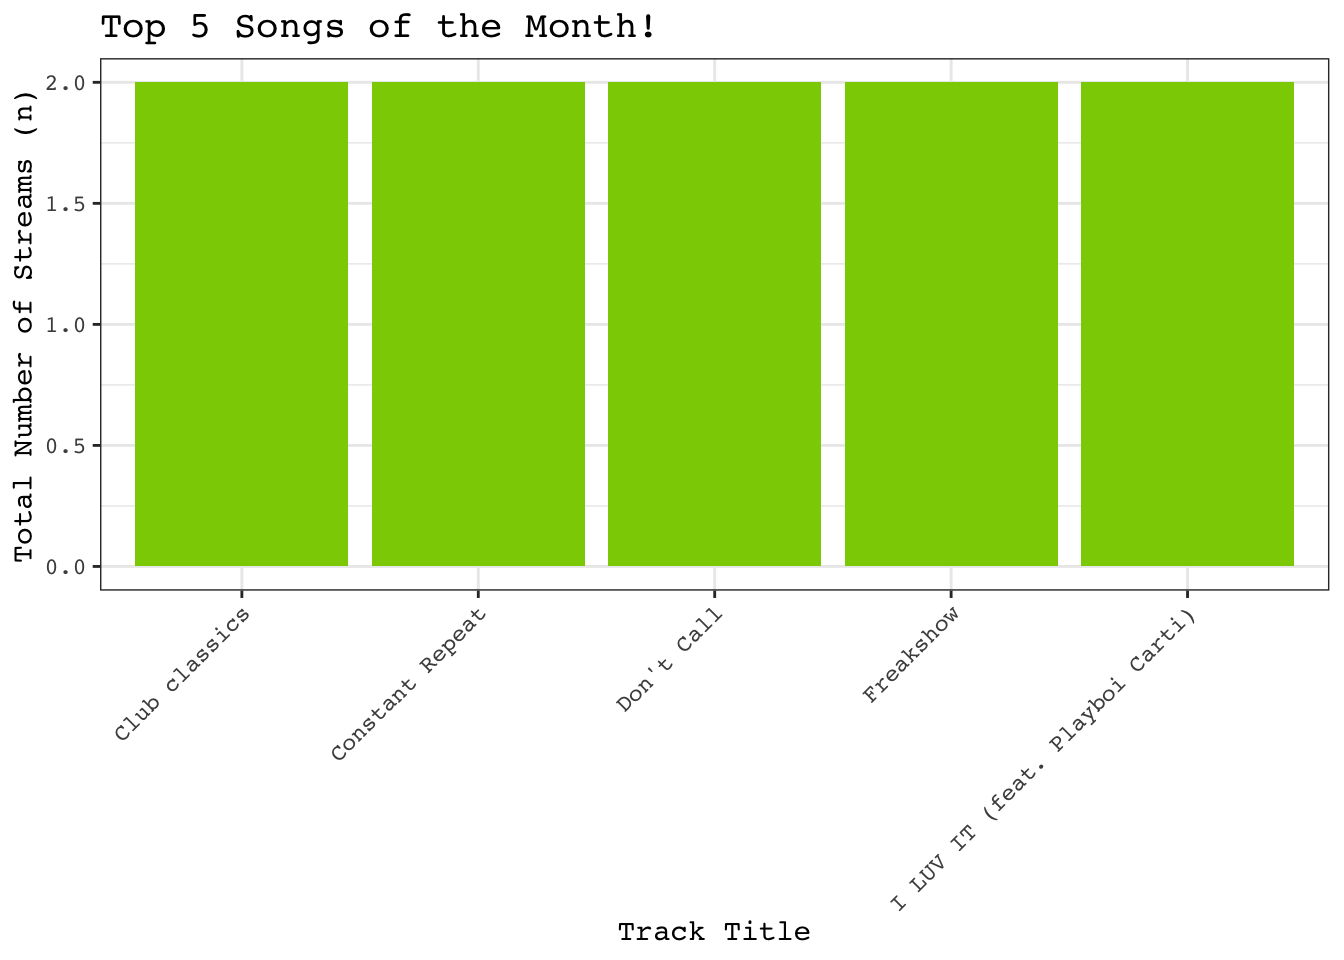
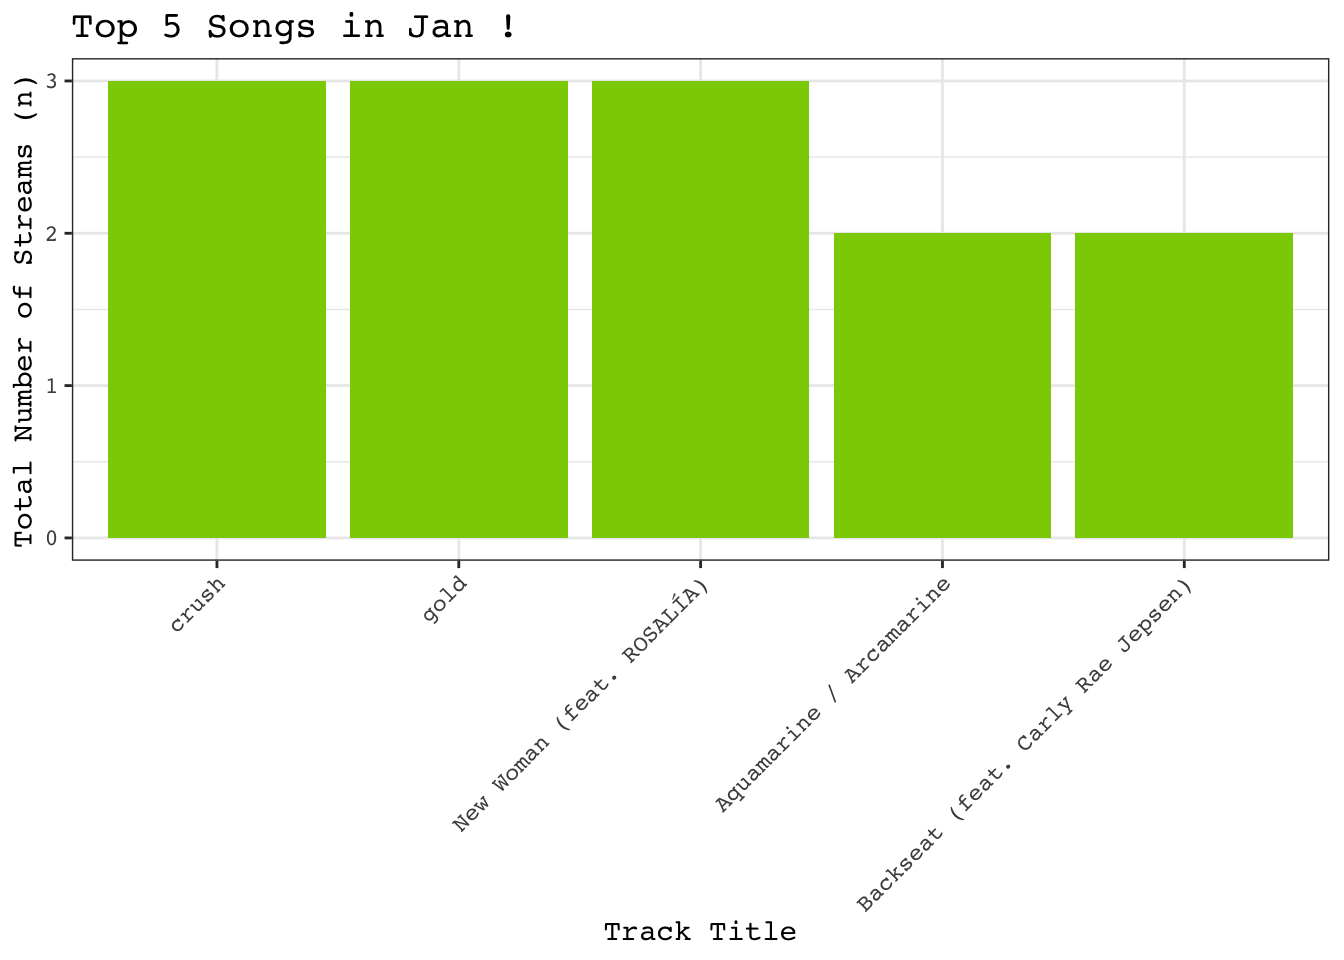
update last plot and messages

diff --git a/spotify_wrapped.html b/spotify_wrapped.html
@@ -134,9 +134,10 @@ pre > code.sourceCode > span > a:first-child::before { text-decoration: underlin
 <div class="cell">
 <details class="code-fold">
 <summary>Code</summary>
-<div class="sourceCode cell-code" id="cb1"><pre class="sourceCode r code-with-copy"><code class="sourceCode r"><span id="cb1-1"><a href="#cb1-1" aria-hidden="true" tabindex="-1"></a><span class="fu">library</span>(tidyverse)</span>
+<div class="sourceCode cell-code" id="cb1"><pre class="sourceCode r code-with-copy"><code class="sourceCode r"><span id="cb1-1"><a href="#cb1-1" aria-hidden="true" tabindex="-1"></a><span class="fu">library</span>(hms)</span>
 <span id="cb1-2"><a href="#cb1-2" aria-hidden="true" tabindex="-1"></a><span class="fu">library</span>(lubridate)</span>
-<span id="cb1-3"><a href="#cb1-3" aria-hidden="true" tabindex="-1"></a><span class="fu">library</span>(googlesheets4)</span></code><button title="Copy to Clipboard" class="code-copy-button"><i class="bi"></i></button></pre></div>
+<span id="cb1-3"><a href="#cb1-3" aria-hidden="true" tabindex="-1"></a><span class="fu">library</span>(tidyverse)</span>
+<span id="cb1-4"><a href="#cb1-4" aria-hidden="true" tabindex="-1"></a><span class="fu">library</span>(googlesheets4)</span></code><button title="Copy to Clipboard" class="code-copy-button"><i class="bi"></i></button></pre></div>
 </details>
 </div>
 </section>
@@ -220,11 +221,12 @@ pre > code.sourceCode > span > a:first-child::before { text-decoration: underlin
 <span id="cb7-2"><a href="#cb7-2" aria-hidden="true" tabindex="-1"></a>monthly_datasets <span class="ot">&lt;-</span> spotify_data_clean <span class="sc">%&gt;%</span></span>
 <span id="cb7-3"><a href="#cb7-3" aria-hidden="true" tabindex="-1"></a>  <span class="fu">mutate</span>(<span class="at">month =</span> <span class="fu">month</span>(date, <span class="at">label =</span> <span class="cn">TRUE</span>)) <span class="sc">%&gt;%</span> </span>
 <span id="cb7-4"><a href="#cb7-4" aria-hidden="true" tabindex="-1"></a>  <span class="fu">group_by</span>(month) <span class="sc">%&gt;%</span></span>
-<span id="cb7-5"><a href="#cb7-5" aria-hidden="true" tabindex="-1"></a>   <span class="fu">mutate</span>(<span class="at">ymd_date =</span> <span class="fu">as.Date</span>(date)) <span class="sc">%&gt;%</span></span>
-<span id="cb7-6"><a href="#cb7-6" aria-hidden="true" tabindex="-1"></a>  <span class="fu">group_split</span>()</span>
-<span id="cb7-7"><a href="#cb7-7" aria-hidden="true" tabindex="-1"></a></span>
-<span id="cb7-8"><a href="#cb7-8" aria-hidden="true" tabindex="-1"></a><span class="co"># Month</span></span>
-<span id="cb7-9"><a href="#cb7-9" aria-hidden="true" tabindex="-1"></a>i <span class="ot">&lt;-</span> <span class="dv">1</span></span></code><button title="Copy to Clipboard" class="code-copy-button"><i class="bi"></i></button></pre></div>
+<span id="cb7-5"><a href="#cb7-5" aria-hidden="true" tabindex="-1"></a>  <span class="fu">mutate</span>(<span class="at">ymd_date =</span> <span class="fu">as.Date</span>(date)) <span class="sc">%&gt;%</span></span>
+<span id="cb7-6"><a href="#cb7-6" aria-hidden="true" tabindex="-1"></a>  <span class="fu">mutate</span>(<span class="at">time =</span> <span class="fu">as_hms</span>(date)) <span class="sc">%&gt;%</span></span>
+<span id="cb7-7"><a href="#cb7-7" aria-hidden="true" tabindex="-1"></a>  <span class="fu">group_split</span>()</span>
+<span id="cb7-8"><a href="#cb7-8" aria-hidden="true" tabindex="-1"></a></span>
+<span id="cb7-9"><a href="#cb7-9" aria-hidden="true" tabindex="-1"></a><span class="co"># Month</span></span>
+<span id="cb7-10"><a href="#cb7-10" aria-hidden="true" tabindex="-1"></a>i <span class="ot">&lt;-</span> <span class="dv">1</span></span></code><button title="Copy to Clipboard" class="code-copy-button"><i class="bi"></i></button></pre></div>
 </div>
 <section id="top-artists" class="level3">
 <h3 class="anchored" data-anchor-id="top-artists">Top Artists</h3>
@@ -239,7 +241,7 @@ pre > code.sourceCode > span > a:first-child::before { text-decoration: underlin
 <span id="cb8-6"><a href="#cb8-6" aria-hidden="true" tabindex="-1"></a><span class="fu">message</span>(<span class="fu">paste</span>(<span class="st">"You listened to"</span>, u_artists<span class="sc">$</span>total_unique_artists, <span class="st">"different artists in"</span>, u_artists<span class="sc">$</span>month, <span class="st">"!"</span>))</span></code><button title="Copy to Clipboard" class="code-copy-button"><i class="bi"></i></button></pre></div>
 </details>
 <div class="cell-output cell-output-stderr">
-<pre><code>You listened to 42 different artists in Jan !</code></pre>
+<pre><code>You listened to 48 different artists in Jan !</code></pre>
 </div>
 </div>
 <div class="cell">
@@ -262,7 +264,7 @@ pre > code.sourceCode > span > a:first-child::before { text-decoration: underlin
 <span id="cb10-15"><a href="#cb10-15" aria-hidden="true" tabindex="-1"></a>           <span class="at">fill =</span> <span class="st">"#8ACE00"</span>) <span class="sc">+</span></span>
 <span id="cb10-16"><a href="#cb10-16" aria-hidden="true" tabindex="-1"></a>  <span class="fu">labs</span>(<span class="at">x =</span> <span class="st">"Artist"</span>,</span>
 <span id="cb10-17"><a href="#cb10-17" aria-hidden="true" tabindex="-1"></a>       <span class="at">y =</span> <span class="st">"Total Number of Streams (n)"</span>,</span>
-<span id="cb10-18"><a href="#cb10-18" aria-hidden="true" tabindex="-1"></a>       <span class="at">title =</span> <span class="st">"Top 5 Artists of the Month!"</span>) <span class="sc">+</span> </span>
+<span id="cb10-18"><a href="#cb10-18" aria-hidden="true" tabindex="-1"></a>       <span class="at">title =</span> <span class="fu">paste</span>(<span class="st">"Top 5 Artists in"</span>, monthly_datasets[[i]]<span class="sc">$</span>month, <span class="st">"!"</span>)) <span class="sc">+</span> </span>
 <span id="cb10-19"><a href="#cb10-19" aria-hidden="true" tabindex="-1"></a>  <span class="fu">theme_bw</span>() <span class="sc">+</span></span>
 <span id="cb10-20"><a href="#cb10-20" aria-hidden="true" tabindex="-1"></a>  <span class="fu">theme</span>(<span class="at">axis.text.x =</span> <span class="fu">element_text</span>(<span class="at">angle =</span> <span class="dv">45</span>, <span class="at">hjust =</span> <span class="dv">1</span>, <span class="at">family =</span> <span class="st">"Courier"</span>),  </span>
 <span id="cb10-21"><a href="#cb10-21" aria-hidden="true" tabindex="-1"></a>    <span class="at">axis.text.y =</span> <span class="fu">element_text</span>(<span class="at">family =</span> <span class="st">"Courier"</span>),</span>
@@ -285,10 +287,10 @@ pre > code.sourceCode > span > a:first-child::before { text-decoration: underlin
 <details class="code-fold">
 <summary>Code</summary>
 <div class="sourceCode cell-code" id="cb11"><pre class="sourceCode r code-with-copy"><code class="sourceCode r"><span id="cb11-1"><a href="#cb11-1" aria-hidden="true" tabindex="-1"></a><span class="co"># Print a message with the total number of track streams</span></span>
-<span id="cb11-2"><a href="#cb11-2" aria-hidden="true" tabindex="-1"></a><span class="fu">message</span>(<span class="fu">paste</span>(<span class="st">"You listened to a total of"</span>, <span class="fu">nrow</span>(monthly_datasets[[i]]), <span class="st">"songs this month !"</span>))</span></code><button title="Copy to Clipboard" class="code-copy-button"><i class="bi"></i></button></pre></div>
+<span id="cb11-2"><a href="#cb11-2" aria-hidden="true" tabindex="-1"></a><span class="fu">message</span>(<span class="fu">paste</span>(<span class="st">"You listened to a total of"</span>, <span class="fu">nrow</span>(monthly_datasets[[i]]), <span class="st">"songs in"</span>, monthly_datasets[[i]]<span class="sc">$</span>month[<span class="dv">1</span>], <span class="st">"!"</span>))</span></code><button title="Copy to Clipboard" class="code-copy-button"><i class="bi"></i></button></pre></div>
 </details>
 <div class="cell-output cell-output-stderr">
-<pre><code>You listened to a total of 113 songs this month !</code></pre>
+<pre><code>You listened to a total of 140 songs in Jan !</code></pre>
 </div>
 </div>
 <div class="cell">
@@ -299,10 +301,10 @@ pre > code.sourceCode > span > a:first-child::before { text-decoration: underlin
 <span id="cb13-3"><a href="#cb13-3" aria-hidden="true" tabindex="-1"></a>  <span class="fu">summarize</span>(<span class="at">month =</span> month[i], <span class="at">total_unique_tracks =</span> <span class="fu">n_distinct</span>(track_name))</span>
 <span id="cb13-4"><a href="#cb13-4" aria-hidden="true" tabindex="-1"></a></span>
 <span id="cb13-5"><a href="#cb13-5" aria-hidden="true" tabindex="-1"></a><span class="co"># Print a message with the total unique tracks for the month</span></span>
-<span id="cb13-6"><a href="#cb13-6" aria-hidden="true" tabindex="-1"></a><span class="fu">message</span>(<span class="fu">paste</span>(<span class="st">"Out of those,"</span>, u_tracks<span class="sc">$</span>total_unique_tracks, <span class="st">"were different songs in"</span>, u_tracks<span class="sc">$</span>month, <span class="st">"!"</span>))</span></code><button title="Copy to Clipboard" class="code-copy-button"><i class="bi"></i></button></pre></div>
+<span id="cb13-6"><a href="#cb13-6" aria-hidden="true" tabindex="-1"></a><span class="fu">message</span>(<span class="fu">paste</span>(<span class="st">"Out of those"</span>, <span class="fu">nrow</span>(monthly_datasets[[i]]), <span class="st">","</span>, u_tracks<span class="sc">$</span>total_unique_tracks, <span class="st">"were different songs !"</span>))</span></code><button title="Copy to Clipboard" class="code-copy-button"><i class="bi"></i></button></pre></div>
 </details>
 <div class="cell-output cell-output-stderr">
-<pre><code>Out of those, 104 were different songs in Jan !</code></pre>
+<pre><code>Out of those 140 , 119 were different songs !</code></pre>
 </div>
 </div>
 <div class="cell">
@@ -325,7 +327,7 @@ pre > code.sourceCode > span > a:first-child::before { text-decoration: underlin
 <span id="cb15-15"><a href="#cb15-15" aria-hidden="true" tabindex="-1"></a>           <span class="at">fill =</span> <span class="st">"#8ACE00"</span>) <span class="sc">+</span></span>
 <span id="cb15-16"><a href="#cb15-16" aria-hidden="true" tabindex="-1"></a>  <span class="fu">labs</span>(<span class="at">x =</span> <span class="st">"Track Title"</span>,</span>
 <span id="cb15-17"><a href="#cb15-17" aria-hidden="true" tabindex="-1"></a>       <span class="at">y =</span> <span class="st">"Total Number of Streams (n)"</span>,</span>
-<span id="cb15-18"><a href="#cb15-18" aria-hidden="true" tabindex="-1"></a>       <span class="at">title =</span> <span class="st">"Top 5 Songs of the Month!"</span>) <span class="sc">+</span> </span>
+<span id="cb15-18"><a href="#cb15-18" aria-hidden="true" tabindex="-1"></a>       <span class="at">title =</span> <span class="fu">paste</span>(<span class="st">"Top 5 Songs in"</span>, monthly_datasets[[i]]<span class="sc">$</span>month, <span class="st">"!"</span>))<span class="sc">+</span> </span>
 <span id="cb15-19"><a href="#cb15-19" aria-hidden="true" tabindex="-1"></a>  <span class="fu">theme_bw</span>() <span class="sc">+</span></span>
 <span id="cb15-20"><a href="#cb15-20" aria-hidden="true" tabindex="-1"></a>  <span class="fu">theme</span>(<span class="at">axis.text.x =</span> <span class="fu">element_text</span>(<span class="at">angle =</span> <span class="dv">45</span>, <span class="at">hjust =</span> <span class="dv">1</span>, <span class="at">family =</span> <span class="st">"Courier"</span>),  </span>
 <span id="cb15-21"><a href="#cb15-21" aria-hidden="true" tabindex="-1"></a>        <span class="at">axis.text.y =</span> <span class="fu">element_text</span>(<span class="at">family =</span> <span class="st">"Courier"</span>),</span>
@@ -349,14 +351,13 @@ pre > code.sourceCode > span > a:first-child::before { text-decoration: underlin
 <summary>Code</summary>
 <div class="sourceCode cell-code" id="cb16"><pre class="sourceCode r code-with-copy"><code class="sourceCode r"><span id="cb16-1"><a href="#cb16-1" aria-hidden="true" tabindex="-1"></a><span class="co"># Summarize the number of songs per day</span></span>
 <span id="cb16-2"><a href="#cb16-2" aria-hidden="true" tabindex="-1"></a>daily_songs <span class="ot">&lt;-</span> monthly_datasets[[i]] <span class="sc">%&gt;%</span></span>
-<span id="cb16-3"><a href="#cb16-3" aria-hidden="true" tabindex="-1"></a>  <span class="fu">mutate</span>(<span class="at">ymd_date =</span> <span class="fu">as.Date</span>(date)) <span class="sc">%&gt;%</span></span>
-<span id="cb16-4"><a href="#cb16-4" aria-hidden="true" tabindex="-1"></a>  <span class="fu">group_by</span>(ymd_date) <span class="sc">%&gt;%</span></span>
-<span id="cb16-5"><a href="#cb16-5" aria-hidden="true" tabindex="-1"></a>  <span class="fu">summarize</span>(<span class="at">n_songs =</span> <span class="fu">n</span>()) <span class="sc">%&gt;%</span></span>
-<span id="cb16-6"><a href="#cb16-6" aria-hidden="true" tabindex="-1"></a>  <span class="fu">mutate</span>(<span class="at">month_day =</span> <span class="fu">format</span>(ymd_date, <span class="st">"%b %d"</span>)) <span class="sc">%&gt;%</span></span>
-<span id="cb16-7"><a href="#cb16-7" aria-hidden="true" tabindex="-1"></a>  <span class="fu">arrange</span>(<span class="fu">desc</span>(n_songs))</span>
-<span id="cb16-8"><a href="#cb16-8" aria-hidden="true" tabindex="-1"></a></span>
-<span id="cb16-9"><a href="#cb16-9" aria-hidden="true" tabindex="-1"></a><span class="co"># Print a message for the highest streaming day</span></span>
-<span id="cb16-10"><a href="#cb16-10" aria-hidden="true" tabindex="-1"></a><span class="fu">message</span>(<span class="fu">paste</span>(<span class="st">"Your highest streaming day was"</span>, daily_songs<span class="sc">$</span>month_day[i], <span class="st">"with"</span>, daily_songs<span class="sc">$</span>n_songs[i], <span class="st">"songs streamed !"</span>))</span></code><button title="Copy to Clipboard" class="code-copy-button"><i class="bi"></i></button></pre></div>
+<span id="cb16-3"><a href="#cb16-3" aria-hidden="true" tabindex="-1"></a>  <span class="fu">group_by</span>(ymd_date) <span class="sc">%&gt;%</span></span>
+<span id="cb16-4"><a href="#cb16-4" aria-hidden="true" tabindex="-1"></a>  <span class="fu">summarize</span>(<span class="at">n_songs =</span> <span class="fu">n</span>()) <span class="sc">%&gt;%</span></span>
+<span id="cb16-5"><a href="#cb16-5" aria-hidden="true" tabindex="-1"></a>  <span class="fu">mutate</span>(<span class="at">month_day =</span> <span class="fu">format</span>(ymd_date, <span class="st">"%b %d"</span>)) <span class="sc">%&gt;%</span></span>
+<span id="cb16-6"><a href="#cb16-6" aria-hidden="true" tabindex="-1"></a>  <span class="fu">arrange</span>(<span class="fu">desc</span>(n_songs))</span>
+<span id="cb16-7"><a href="#cb16-7" aria-hidden="true" tabindex="-1"></a></span>
+<span id="cb16-8"><a href="#cb16-8" aria-hidden="true" tabindex="-1"></a><span class="co"># Print a message for the highest streaming day</span></span>
+<span id="cb16-9"><a href="#cb16-9" aria-hidden="true" tabindex="-1"></a><span class="fu">message</span>(<span class="fu">paste</span>(<span class="st">"Your highest streaming day was"</span>, daily_songs<span class="sc">$</span>month_day[i], <span class="st">"with"</span>, daily_songs<span class="sc">$</span>n_songs[i], <span class="st">"songs streamed !"</span>))</span></code><button title="Copy to Clipboard" class="code-copy-button"><i class="bi"></i></button></pre></div>
 </details>
 <div class="cell-output cell-output-stderr">
 <pre><code>Your highest streaming day was Jan 17 with 81 songs streamed !</code></pre>
@@ -372,7 +373,7 @@ pre > code.sourceCode > span > a:first-child::before { text-decoration: underlin
 <span id="cb18-5"><a href="#cb18-5" aria-hidden="true" tabindex="-1"></a><span class="fu">message</span>(<span class="fu">paste</span>(<span class="st">"Your lowest streaming day was"</span>, daily_songs<span class="sc">$</span>month_day[last_position], <span class="st">"with"</span>, daily_songs<span class="sc">$</span>n_songs[last_position], <span class="st">"songs streamed !"</span>))</span></code><button title="Copy to Clipboard" class="code-copy-button"><i class="bi"></i></button></pre></div>
 </details>
 <div class="cell-output cell-output-stderr">
-<pre><code>Your lowest streaming day was Jan 16 with 32 songs streamed !</code></pre>
+<pre><code>Your lowest streaming day was Jan 18 with 27 songs streamed !</code></pre>
 </div>
 </div>
 <div class="cell">
@@ -385,7 +386,7 @@ pre > code.sourceCode > span > a:first-child::before { text-decoration: underlin
 <span id="cb20-5"><a href="#cb20-5" aria-hidden="true" tabindex="-1"></a>  <span class="fu">geom_line</span>(<span class="at">color =</span> <span class="st">"#8ACE00"</span>, <span class="at">linewidth =</span> <span class="dv">1</span>) <span class="sc">+</span></span>
 <span id="cb20-6"><a href="#cb20-6" aria-hidden="true" tabindex="-1"></a>  <span class="fu">labs</span>(<span class="at">x =</span> <span class="st">"Date"</span>,</span>
 <span id="cb20-7"><a href="#cb20-7" aria-hidden="true" tabindex="-1"></a>       <span class="at">y =</span> <span class="st">"Total Number of Streams (n)"</span>,</span>
-<span id="cb20-8"><a href="#cb20-8" aria-hidden="true" tabindex="-1"></a>       <span class="at">title =</span> <span class="st">"Monthly Streaming Habits"</span>) <span class="sc">+</span> </span>
+<span id="cb20-8"><a href="#cb20-8" aria-hidden="true" tabindex="-1"></a>       <span class="at">title =</span> <span class="fu">paste</span>(<span class="st">"Monthly Streaming Habits for"</span>, monthly_datasets[[i]]<span class="sc">$</span>month)) <span class="sc">+</span> </span>
 <span id="cb20-9"><a href="#cb20-9" aria-hidden="true" tabindex="-1"></a>  <span class="fu">theme_bw</span>() <span class="sc">+</span></span>
 <span id="cb20-10"><a href="#cb20-10" aria-hidden="true" tabindex="-1"></a>  <span class="fu">theme</span>(<span class="at">axis.text.x =</span> <span class="fu">element_text</span>(<span class="at">angle =</span> <span class="dv">45</span>, <span class="at">hjust =</span> <span class="dv">1</span>, <span class="at">family =</span> <span class="st">"Courier"</span>),  </span>
 <span id="cb20-11"><a href="#cb20-11" aria-hidden="true" tabindex="-1"></a>        <span class="at">axis.text.y =</span> <span class="fu">element_text</span>(<span class="at">family =</span> <span class="st">"Courier"</span>),</span>
@@ -407,18 +408,19 @@ pre > code.sourceCode > span > a:first-child::before { text-decoration: underlin
 <div class="sourceCode cell-code" id="cb21"><pre class="sourceCode r code-with-copy"><code class="sourceCode r"><span id="cb21-1"><a href="#cb21-1" aria-hidden="true" tabindex="-1"></a><span class="co"># Extract the day with the highest streams</span></span>
 <span id="cb21-2"><a href="#cb21-2" aria-hidden="true" tabindex="-1"></a>high_streams <span class="ot">&lt;-</span> <span class="fu">inner_join</span>(monthly_datasets[[i]], daily_songs[<span class="dv">1</span>, <span class="dv">1</span><span class="sc">:</span><span class="dv">2</span>], <span class="at">by =</span> <span class="st">"ymd_date"</span>)</span>
 <span id="cb21-3"><a href="#cb21-3" aria-hidden="true" tabindex="-1"></a></span>
-<span id="cb21-4"><a href="#cb21-4" aria-hidden="true" tabindex="-1"></a><span class="co"># Create a histogram</span></span>
-<span id="cb21-5"><a href="#cb21-5" aria-hidden="true" tabindex="-1"></a><span class="fu">ggplot</span>(<span class="at">data =</span> high_streams, <span class="fu">aes</span>(<span class="at">x =</span> date)) <span class="sc">+</span></span>
-<span id="cb21-6"><a href="#cb21-6" aria-hidden="true" tabindex="-1"></a>  <span class="fu">geom_histogram</span>(<span class="at">bins =</span> <span class="dv">30</span>, <span class="at">fill =</span> <span class="st">"#8ACE00"</span>) <span class="sc">+</span></span>
-<span id="cb21-7"><a href="#cb21-7" aria-hidden="true" tabindex="-1"></a>  <span class="fu">labs</span>(<span class="at">x =</span> <span class="st">""</span>,</span>
-<span id="cb21-8"><a href="#cb21-8" aria-hidden="true" tabindex="-1"></a>       <span class="at">y =</span> <span class="st">"Total Number of Streams (n)"</span>,</span>
-<span id="cb21-9"><a href="#cb21-9" aria-hidden="true" tabindex="-1"></a>       <span class="at">title =</span> <span class="st">"Highest Streaming Day!"</span>) <span class="sc">+</span> </span>
-<span id="cb21-10"><a href="#cb21-10" aria-hidden="true" tabindex="-1"></a>  <span class="fu">theme_bw</span>() <span class="sc">+</span></span>
-<span id="cb21-11"><a href="#cb21-11" aria-hidden="true" tabindex="-1"></a>  <span class="fu">theme</span>(<span class="at">axis.text.x =</span> <span class="fu">element_text</span>(<span class="at">angle =</span> <span class="dv">45</span>, <span class="at">hjust =</span> <span class="dv">1</span>, <span class="at">family =</span> <span class="st">"Courier"</span>),  </span>
-<span id="cb21-12"><a href="#cb21-12" aria-hidden="true" tabindex="-1"></a>        <span class="at">axis.text.y =</span> <span class="fu">element_text</span>(<span class="at">family =</span> <span class="st">"Courier"</span>),</span>
-<span id="cb21-13"><a href="#cb21-13" aria-hidden="true" tabindex="-1"></a>        <span class="at">axis.title.x =</span> <span class="fu">element_text</span>(<span class="at">family =</span> <span class="st">"Courier"</span>),</span>
-<span id="cb21-14"><a href="#cb21-14" aria-hidden="true" tabindex="-1"></a>        <span class="at">axis.title.y =</span> <span class="fu">element_text</span>(<span class="at">family =</span> <span class="st">"Courier"</span>),</span>
-<span id="cb21-15"><a href="#cb21-15" aria-hidden="true" tabindex="-1"></a>        <span class="at">plot.title =</span> <span class="fu">element_text</span>(<span class="at">family =</span> <span class="st">"Courier"</span>, <span class="at">size =</span> <span class="dv">14</span>))</span></code><button title="Copy to Clipboard" class="code-copy-button"><i class="bi"></i></button></pre></div>
+<span id="cb21-4"><a href="#cb21-4" aria-hidden="true" tabindex="-1"></a><span class="co"># Create a density plot</span></span>
+<span id="cb21-5"><a href="#cb21-5" aria-hidden="true" tabindex="-1"></a><span class="fu">ggplot</span>(<span class="at">data =</span> high_streams, </span>
+<span id="cb21-6"><a href="#cb21-6" aria-hidden="true" tabindex="-1"></a>       <span class="fu">aes</span>(<span class="at">x =</span> time)) <span class="sc">+</span></span>
+<span id="cb21-7"><a href="#cb21-7" aria-hidden="true" tabindex="-1"></a>  <span class="fu">geom_histogram</span>(<span class="at">bins =</span> <span class="dv">30</span>, <span class="at">fill =</span> <span class="st">"#8ACE00"</span>) <span class="sc">+</span></span>
+<span id="cb21-8"><a href="#cb21-8" aria-hidden="true" tabindex="-1"></a>  <span class="fu">labs</span>(<span class="at">x =</span> <span class="st">"Time"</span>,</span>
+<span id="cb21-9"><a href="#cb21-9" aria-hidden="true" tabindex="-1"></a>       <span class="at">y =</span> <span class="st">"Total Number of Streams (n)"</span>,</span>
+<span id="cb21-10"><a href="#cb21-10" aria-hidden="true" tabindex="-1"></a>       <span class="at">title =</span> <span class="fu">paste</span>(<span class="st">"Highest Streaming Day,"</span>, daily_songs<span class="sc">$</span>month_day[<span class="dv">1</span>], <span class="st">"!"</span>)) <span class="sc">+</span></span>
+<span id="cb21-11"><a href="#cb21-11" aria-hidden="true" tabindex="-1"></a>  <span class="fu">theme_bw</span>() <span class="sc">+</span></span>
+<span id="cb21-12"><a href="#cb21-12" aria-hidden="true" tabindex="-1"></a>  <span class="fu">theme</span>(<span class="at">axis.text.x =</span> <span class="fu">element_text</span>(<span class="at">angle =</span> <span class="dv">45</span>, <span class="at">hjust =</span> <span class="dv">1</span>, <span class="at">family =</span> <span class="st">"Courier"</span>),  </span>
+<span id="cb21-13"><a href="#cb21-13" aria-hidden="true" tabindex="-1"></a>        <span class="at">axis.text.y =</span> <span class="fu">element_text</span>(<span class="at">family =</span> <span class="st">"Courier"</span>),</span>
+<span id="cb21-14"><a href="#cb21-14" aria-hidden="true" tabindex="-1"></a>        <span class="at">axis.title.x =</span> <span class="fu">element_text</span>(<span class="at">family =</span> <span class="st">"Courier"</span>),</span>
+<span id="cb21-15"><a href="#cb21-15" aria-hidden="true" tabindex="-1"></a>        <span class="at">axis.title.y =</span> <span class="fu">element_text</span>(<span class="at">family =</span> <span class="st">"Courier"</span>),</span>
+<span id="cb21-16"><a href="#cb21-16" aria-hidden="true" tabindex="-1"></a>        <span class="at">plot.title =</span> <span class="fu">element_text</span>(<span class="at">family =</span> <span class="st">"Courier"</span>, <span class="at">size =</span> <span class="dv">14</span>))</span></code><button title="Copy to Clipboard" class="code-copy-button"><i class="bi"></i></button></pre></div>
 </details>
 <div class="cell-output-display">
 <div>
